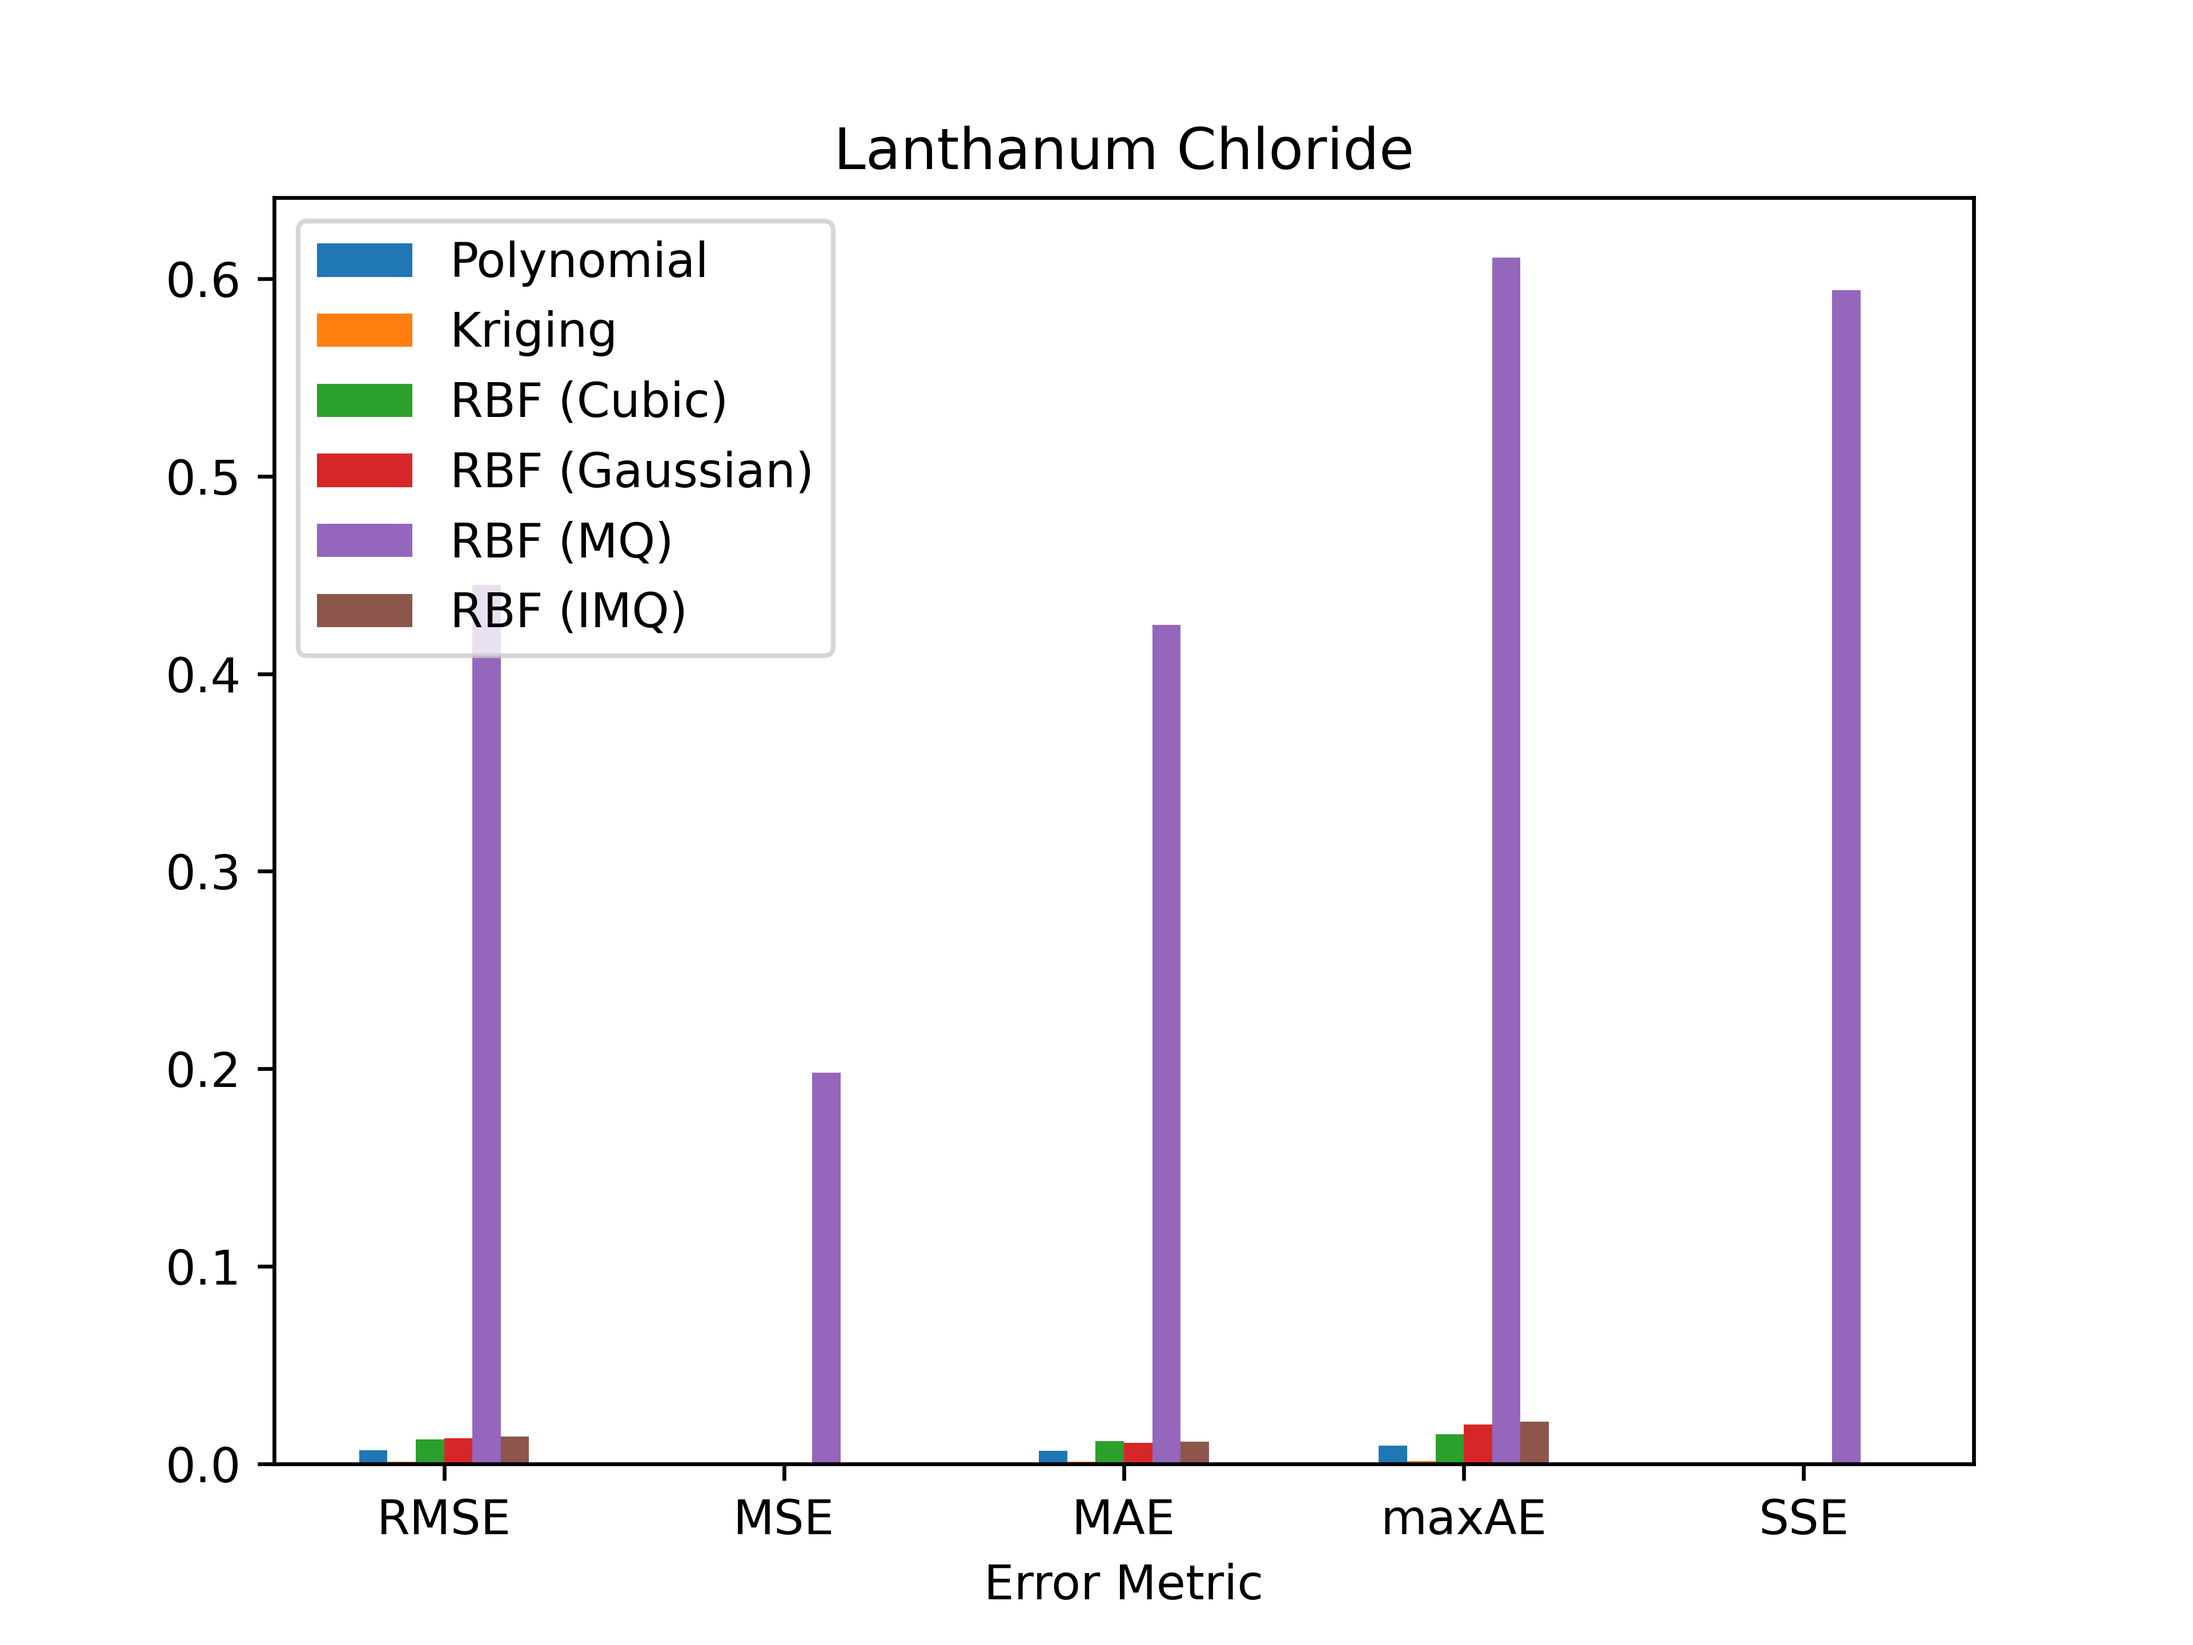
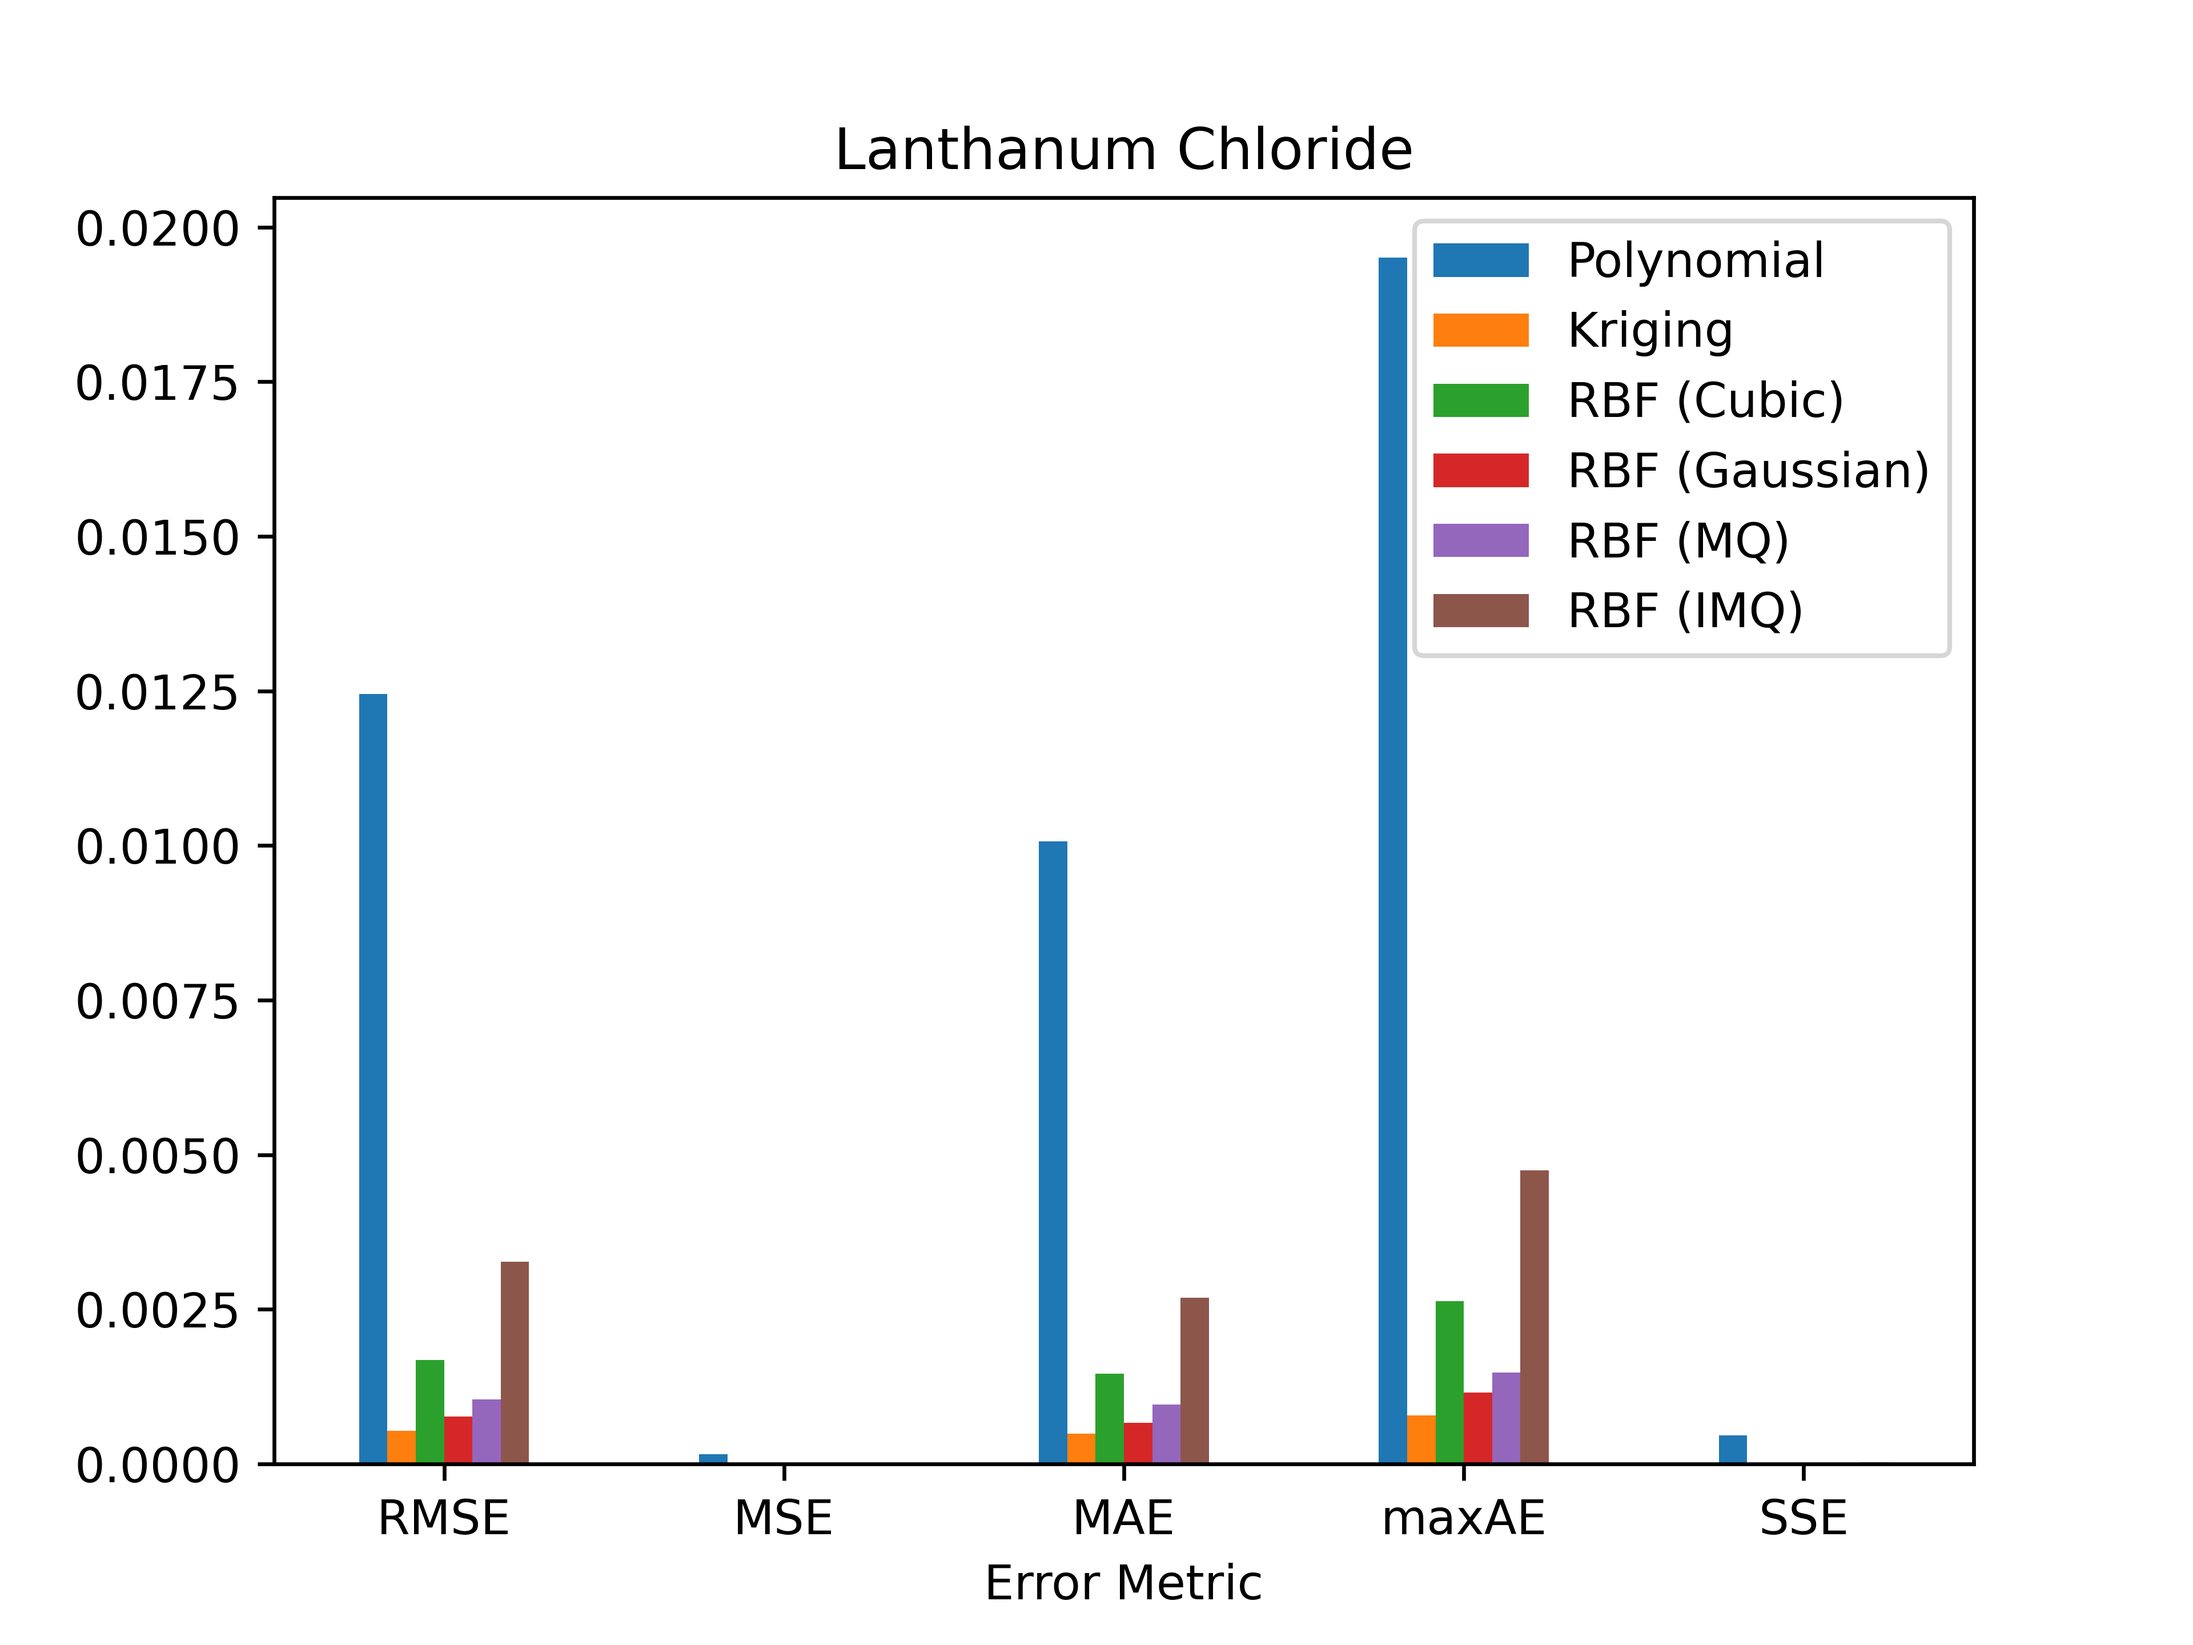
fixed bug in La solves

diff --git a/src/prommis/nanofiltration/surrogate_model_analysis/generate_synthetic_data.py b/src/prommis/nanofiltration/surrogate_model_analysis/generate_synthetic_data.py
@@ -46,7 +46,7 @@ def build_model(
     NFE_args,
     water_flux,
     data_membrane_thickness,
-    multiplier_H_feed=1,
+    multiplier_H_feed=1.2,
     multiplier_H_perm=1,
     non_Donnan_partition_dict={},
     initialize_and_solve=True,
@@ -218,7 +218,6 @@ def generate_single_salt_data(cation):
 
     for water_flux in water_fluxes:
         for concentration in concentrations:
-            i = 0
             if concentration == concentrations[0]:
                 model = build_model(
                     cation_list=[cation],
@@ -254,7 +253,7 @@ def generate_single_salt_data(cation):
 
                 for t in model.fs.membrane.time:
                     for j in model.fs.membrane.solutes:
-                        model.fs.membrane.feed_conc_mol_comp[t, j].set_value(concentrations[i+1])
+                        model.fs.membrane.feed_conc_mol_comp[t, j].set_value(concentration)
         
                 solve_model(model)
                 unfix_pressure(model, water_flux_target=water_flux)
@@ -266,8 +265,6 @@ def generate_single_salt_data(cation):
                 conc_list.append(concentration)
                 water_flux_list.append(water_flux)
                 ion_flux_list.append(get_average_flux(model, cation))
-
-                i += 1
 
     dict = {
         "feed_conc": conc_list,
